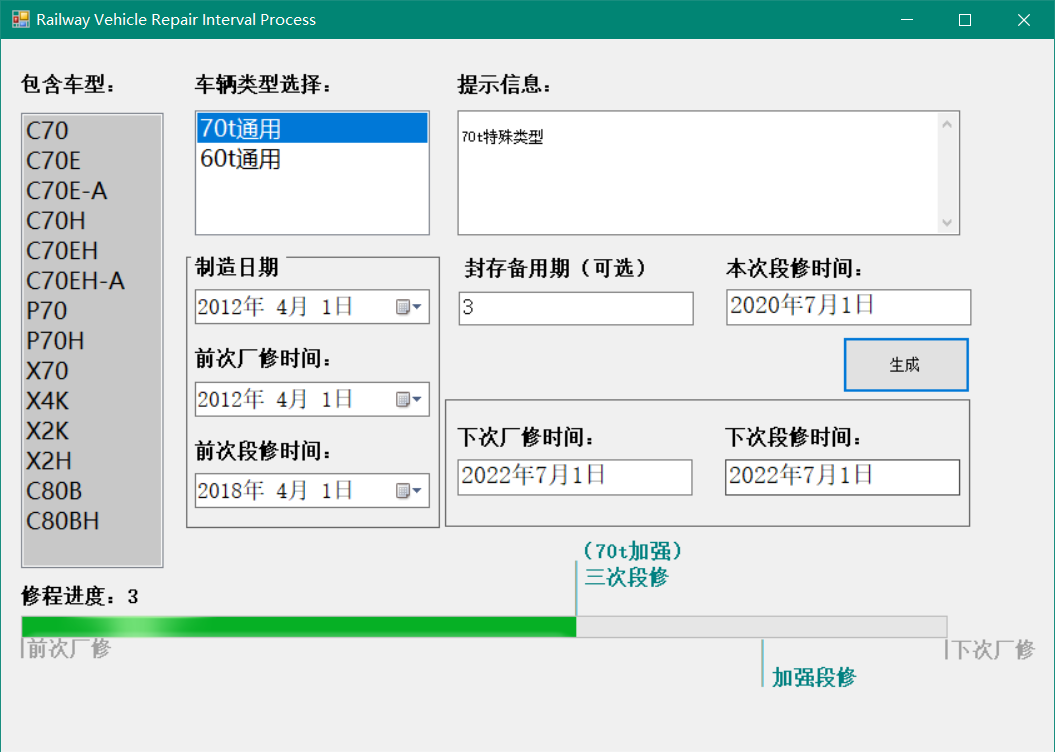
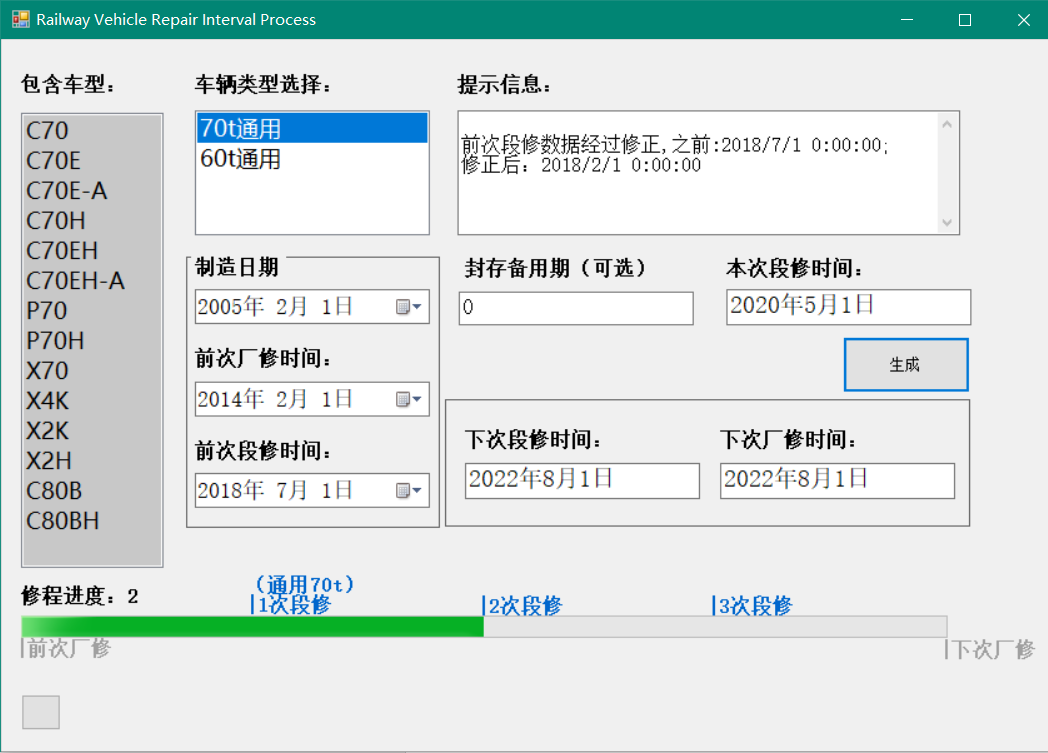
Update Doc

diff --git a/README.md b/README.md
@@ -1,25 +1,66 @@
-# 铁路货车修程修制计算开发文档（仅限参与改革车辆）
-> Railway Vehicle Rapair Interval Process Program
+# 中国铁路货车修程修制改革货车定检日期核对软件开发文档
 
-## Instruction
+> China Railway Vehicle Rapair Interval Process Program
+
+## 简介 Instruction 
+
+> 自2019年12月国铁集团实施货车修程修制改革后，参与修程修制改革车辆定检标记存在不同程度延期，而HMIS系统计算数据存在少量偏差，人工计算核对日期效率低、出错率高。为防止参与修程修制改革货车标记涂打错误，影响车辆正常检修，本人开发了货车定检日期计算应用程序，以制造日期、前次厂修、前次段修及封存备用期为基准，结合车型厂、段修周期，用前次段修减前次厂修后除以段修周期四舍五入得出已进行段修次数，本次段修开始按照修程修制改革要求延期处理，进而推算出下次段修、下次厂修及过期月份。经车间技术人员计算验证，并与段修日计划数据比对，该应用程序准确率百分之百，极大的减轻了人工计算量，提高了定检标记日期核对效率。
+
+### 基本功能 Basic Function
 
 输入车辆类型、制造日期、前次厂修日期、前次段修日期、封存期（Optional），点击生成即可计算出本次、下次厂段修，以及显示当前所处修程。
 
 ![](2.png)
+
+程序核心计算流程为：
+
+![](flow.jpg)
+
+### 除此之外 Advanced Function
+
+为更方便使用，在单次计算的基础上加入了Excel导入导出功能，批量计算验证。进一步提高工作效率。
+
 ![](3.png)
 
-## Pre-Tips
-如果您想在此Repository基础上构建```WPF```、```WebApp```等.Net平台程序，只需添加```RailwayVehicleModel```、```VehicleData```类，实例化***RailwayVehicleModel***，给***RailwayVehicleModel***下**5** 项属性赋值：
+## 代码分析
+计算核心代码分为两部分
 
-```
-vehicleModel.GenTpSelection
-vehicleModel.produceDate
-vehicleModel.previousDepotDate
-vehicleModel.previousFactoryDate
-vehicleModel.SealDuration
-```
+1. 一是内含各项日期参数的车辆模型(VehicleModel)
+2. 二是数据处理的计算代码(ProcessKernel)
 
-再传递给***VehicleData.DateProcessKernel(RailwayVehicleModel vehicleModel)***，通过Kernel处理，返回***RailwayVehicleModel***实例，直接显示在UI即可。
+### 数据模型
+
+其中，数据模型里包含了如下参数：
+
+名称|参数
+-|-
+车辆类型 | vehicleGenType
+制造日期 | produceDate
+前次定检段修期 | previousDepotDate
+前次定检厂修期 | previousFactoryDate
+加强段修日期 | enhanceDepotDate（Optional）
+下次段修期 | currentDepotDate
+下次厂修期 | nextFactoryDate
+封存期 | SealDuration
+下下次段修 | vNextDepotDate(Reservered)
+段修进度 | n
+附带警告信息 | warningInfo
+
+（附带警告信息包含参数未填报错、前次段修修正、加强段修车等提示，便于Debug）
+
+### 数据计算部分
+
+为增加程序扩展性，已将数据处理的核心部分分离出来。日后，如果想在此项目（Project）基础上构建```WPF```、```ASP.Net Web App```等.Net平台程序，只需添加```RailwayVehicleModel.cs```、```VehicleData.cs```类，实例化```RailwayVehicleModel```，给```RailwayVehicleModel```下5项属性赋值
+
+名称 | 属性
+-|-
+车辆类型 | vehicleModel.GenTpSelection
+制造日期 | vehicleModel.produceDate
+前次定检段修期 | vehicleModel.previousDepotDate
+前次定检厂修期 | vehicleModel.previousFactoryDate
+封存期 | vehicleModel.SealDuration
+
+再调用```VehicleData. ReDateProcessKernel (RailwayVehicleModel vehicleModel)```方法，处理后返回```RailwayVehicleModel```实例，直接将各项参数显示在UI层即可。
 
 ## Reminder
 **<font color=red>代码中不含有任何铁路车辆数据，不含有任何机密，不含有任何工作文件，不含有任何与国家铁路机密一切相关数据。</font>**
@@ -27,18 +68,6 @@ vehicleModel.SealDuration
 ### And,this program is dedicated to provide convenience for China Railway Cause developers. It wouldn't be internationalized, the doc only provides Chinese.
 ### Additionally, Excel Batch Process Function would be written in next milestone version.
 
-
-## Usage
-
-如果你想查看是如何工作的，或者想修改Kernel。那么请接着往下看。
-
-VehicleData 静态类中***public static RailwayVehicleModel DateProcessKernel(RailwayVehicleModel vehicle)*** 是 **整个程序对修程时间进行计算、矫正的关键**。怎么处理的就不讲了，规则太多太复杂了，下面的图只讲比较粗略的思路。请对着修程修制改革文件、代码进行学习。
-
-大概思路是：
-
-![](./1.png)
-
-为了更便于参数管理，日后拓展程序功能，将Vehicle各项参数存放在Model类中。
 
 > Tips：dateTime.AddMonths(2);不会覆盖dateTime的值，只会返回一个new instance。
 
